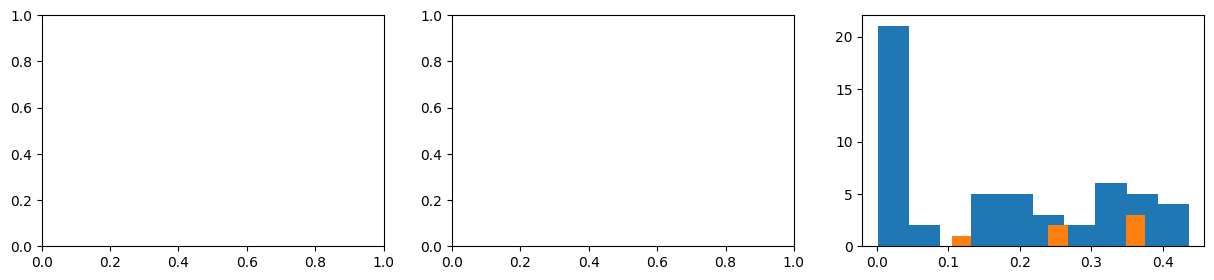
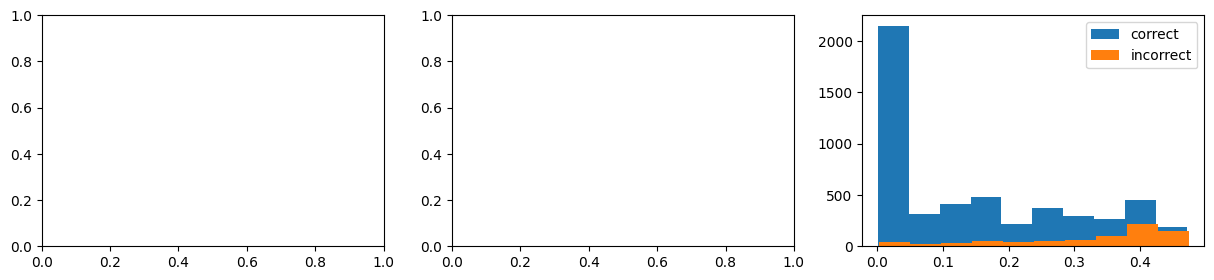
Uncertainty distribution with respect to correctness plot fiexed

diff --git a/plot_uncdist.py b/plot_uncdist.py
@@ -13,11 +13,8 @@ pic_dir = f"{base_dir}/pic/unc"
 if not os.path.exists(pic_dir):
     os.makedirs(pic_dir)
 
-unc_value_plot = False
 local = False
 color_correct = True
-vertical_plot = False
-single_plot = False
 legend_flag = False
 
 # data_list  = ["parkinsons","vertebral","breast","climate", "ionosphere", "blod", "bank", "QSAR", "spambase"] 
@@ -32,7 +29,7 @@ for data in data_list:
     # prameters ############################################################################################################################################
 
     run_name  = "ROC_area"
-    plot_name = data + "_Credal"
+    plot_name = data + "_dist"
     # query       = f"SELECT results, id , prams, result_type FROM experiments Where task='unc' AND dataset='Jdata/{data}' AND status='done' AND (run_name='{run_name}' AND result_type='set18' OR run_name='unc_out2' AND result_type='out')"
     query       = f"SELECT results, id , prams, result_type FROM experiments Where task='unc' AND dataset='Jdata/{data}' AND run_name='{run_name}'"
     # query       = f"SELECT results, id , prams, result_type FROM experiments Where task='unc' AND id>=4984 AND id<=4986"
@@ -52,23 +49,9 @@ for data in data_list:
     data = data.replace("iris", "Iris")
     data = data.replace("heartdisease", "Heart Disease")
 
-    xlabel      = "Rejection %"
-    ylabel      = "Accuracy %"
+    xlabel      = "Uncertainty"
+    ylabel      = "Frequency"
 
-    if single_plot:
-        fig, axs = plt.subplots(1,1)
-        fig.set_figheight(5)
-        fig.set_figwidth(5)
-    else:
-        if vertical_plot:
-            fig, axs = plt.subplots(len(modes),1)
-            fig.set_figheight(10)
-            fig.set_figwidth(5)
-        else:
-            fig, axs = plt.subplots(1,len(modes))
-            fig.set_figheight(3)
-            fig.set_figwidth(15)
-    legend_list = []
     
 
 
@@ -82,9 +65,15 @@ for data in data_list:
     for job in results:
         jobs.append(job)
 
+    fig, axs = plt.subplots(len(jobs),len(modes))
+    fig.set_figheight(15)
+    fig.set_figwidth(15)
+    legend_list = []
+
+
     plot_list = []
 
-    for job in jobs:
+    for job_index, job in enumerate(jobs):
         dir = job[0]
         if dir[0] == ".":
             dir = base_dir + dir[1:]
@@ -131,9 +120,7 @@ for data in data_list:
                 run_result = np.loadtxt(dir_l+"/"+f)
                 all_runs_l.append(run_result)
 
-            avg_dist = unc.uncertainty_distribution(all_runs_p,all_runs_l,all_runs_unc, unc_value_plot)
-            print(avg_dist)
-            exit()
+            correct, incorrect = unc.uncertainty_distribution(all_runs_p,all_runs_l,all_runs_unc)
 
             linestyle = '-'
             # if "set19" in legend:
@@ -178,42 +165,39 @@ for data in data_list:
             legend = legend.replace("set19", "Levi-Ent")
             legend = legend.replace("out", "Outcome")
 
+            plot_legend = ""
+            # if mode == "a":
+            #     if "Levi-Ent" in legend:
+            #         plot_legend = "AL"
+            #     if "Levi-GH" in legend:
+            #         plot_legend = "AD"
+            #     if "Outcome" in legend:
+            #         plot_legend = "AO"
+            #     # make the exception for AU in mode==t
+            # if mode == "e":
+            #     if "Levi-GH" in legend:
+            #         plot_legend = "EM"
+            #     if "Levi-Ent" in legend:
+            #         plot_legend = "EU"
+            # if mode == "t":
+            #     if "Levi-GH" in legend:
+            #         # Exception for AU
+            #         # axs[1].plot(steps, avg_acc, linestyle='--', color=color, label="AU" + f"(area {acc_rej_area:.2f})")
+            #         axs[1].legend()
 
+            #         plot_legend = "TA"
+                    
+            #     if "Outcome" in legend:
+            #         plot_legend = "TO"
+            # print(">>>>> ", plot_legend)
 
-            avg_acc = avg_acc * 100 # to have percentates and not decimals
+            # histogram with 10 bins
+            n, bins, patches = axs[job_index][mode_index].hist(correct, bins=10, label="correct") # equal distance bins
+            n, bins, patches = axs[job_index][mode_index].hist(incorrect, bins=10, label="incorrect") # equal distance bins
+            # plt.savefig(f"./pic/unc/Hist.png",bbox_inches='tight')
 
-            if single_plot:
-                axs.plot(steps, avg_acc, linestyle=linestyle, color=color)
-            else:
-                plot_legend = ""
-                if mode == "a":
-                    if "Levi-Ent" in legend:
-                        plot_legend = "AL"
-                    if "Levi-GH" in legend:
-                        plot_legend = "AD"
-                    if "Outcome" in legend:
-                        plot_legend = "AO"
-                    # make the exception for AU in mode==t
-                if mode == "e":
-                    if "Levi-GH" in legend:
-                        plot_legend = "EM"
-                    if "Levi-Ent" in legend:
-                        plot_legend = "EU"
-                if mode == "t":
-                    if "Levi-GH" in legend:
-                        # Exception for AU
-                        axs[1].plot(steps, avg_acc, linestyle='--', color=color, label="AU" + f"(area {acc_rej_area:.2f})")
-                        axs[1].legend()
-
-                        plot_legend = "TA"
-                        
-                    if "Outcome" in legend:
-                        plot_legend = "TO"
-                # print(">>>>> ", plot_legend)
-
-                if len(plot_legend)>0:
-                    axs[mode_index].plot(steps, avg_acc, linestyle=linestyle, color=color, label=plot_legend + f"(area {acc_rej_area:.2f})")
-                    axs[mode_index].legend()
+            # axs[mode_index].plot(steps, avg_acc, linestyle=linestyle, color=color, label=plot_legend + f"(area {acc_rej_area:.2f})")
+            axs[job_index][mode_index].legend()
             
             if mode == "a":
                 mode_title = "AU"
@@ -222,36 +206,26 @@ for data in data_list:
             if mode == "t":
                 mode_title = "TU"
             
-            if single_plot:
-                legend_list.append(legend + " " + mode_title)
-            elif flap:
+            if flap:
                 legend_list.append(legend)
                 
             
-            if single_plot:
-                axs.set_title(data)
-            else:
-                axs[mode_index].set_title(data + " " + mode_title)
+            axs[job_index][mode_index].set_title(data + " " + legend + " " + mode_title)
             flap =False
 
-    if single_plot == False:
-        acc_lable_flag = True
-        job_plots_list = list(axs.flat)
-        if vertical_plot:
-            job_plots_list = reversed(list(axs.flat))
-        for ax in job_plots_list:
-            if acc_lable_flag:
-                # ax.set(xlabel=xlabel, ylabel=ylabel)
-                # ax.set(xlabel=xlabel)
-                ax.set(ylabel=ylabel)
-                acc_lable_flag = False
-            else:
-                if vertical_plot:
-                    ax.set(ylabel=ylabel)
-                    # pass
-                else:
-                    # ax.set(xlabel=xlabel)
-                    pass
+    job_plots_list = list(axs.flat)
+
+    for ax in job_plots_list:
+        ax.set(xlabel=xlabel, ylabel=ylabel)
+    
+    # acc_lable_flag = True
+    # for ax in job_plots_list:
+    #     if acc_lable_flag:
+    #         # ax.set(xlabel=xlabel, ylabel=ylabel)
+    #         # ax.set(xlabel=xlabel)
+    #         ax.set(ylabel=ylabel)
+    #         acc_lable_flag = False
+
     if legend_flag:
         fig.legend(axs,labels=legend_list, loc="lower center", ncol=6)
 

diff --git a/UncertaintyM.py b/UncertaintyM.py
@@ -1488,6 +1488,8 @@ def uncertainty_correlation(predictions_list, labels_list, uncertainty_list, log
 
 def uncertainty_distribution(predictions_list, labels_list, uncertainty_list, log=False): # more accurate for calculating area under the curve
 	corr_list = [] # list containing all the acc lists of all runs
+	unc_correct_all = np.array([])
+	unc_incorrect_all = np.array([])
 
 	for predictions, uncertainty, labels in zip(predictions_list, uncertainty_list, labels_list):
 
@@ -1497,9 +1499,9 @@ def uncertainty_distribution(predictions_list, labels_list, uncertainty_list, lo
 		correctness_map = []
 		for x, y in zip(predictions, labels):
 			if x == y:
-				correctness_map.append(0) # switching the correctness labels just to get positive corr values
+				correctness_map.append(1) 
 			else:
-				correctness_map.append(1)
+				correctness_map.append(0)
 		
 		# sort based on correctness_map
 
@@ -1519,11 +1521,7 @@ def uncertainty_distribution(predictions_list, labels_list, uncertainty_list, lo
 		unc_correct   = uncertainty[:split_index]
 		incorrects    = correctness_map[split_index:]
 		unc_incorrect = uncertainty[split_index:]
-
-		# histogram with 10 bins
-		n, bins, patches = plt.hist(unc_incorrect, bins=10) # equal distance bins
-		n, bins, patches = plt.hist(unc_correct, bins=10) # equal distance bins
-		plt.savefig(f"./pic/unc/Hist.png",bbox_inches='tight')
-		exit()
-
-	return 0
+		unc_correct_all = np.concatenate((unc_correct_all, unc_correct))
+		unc_incorrect_all = np.concatenate((unc_incorrect_all, unc_incorrect))
+	
+	return unc_correct_all, unc_incorrect_all

diff --git a/plot_accrej.py b/plot_accrej.py
@@ -31,7 +31,7 @@ for data in data_list:
     # prameters ############################################################################################################################################
 
     run_name  = "ROC_area"
-    plot_name = data + "_oldAR"
+    plot_name = data + "_newAR"
     # query       = f"SELECT results, id , prams, result_type FROM experiments Where task='unc' AND dataset='Jdata/{data}' AND status='done' AND (run_name='{run_name}' AND result_type='set18' OR run_name='unc_out2' AND result_type='out')"
     query       = f"SELECT results, id , prams, result_type FROM experiments Where task='unc' AND dataset='Jdata/{data}' AND run_name='{run_name}'"
     # query       = f"SELECT results, id , prams, result_type FROM experiments Where task='unc' AND id>=4984 AND id<=4986"

diff --git a/test.py b/test.py
@@ -1,7 +1,6 @@
 import numpy as np
 
-x = np.arange(9.0)
-
-y = np.split(x, 3)
-
-print(y)
+x = np.array([])
+y = np.array([1,2,3])
+c = np.concatenate((x,y))
+print(c)
